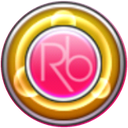
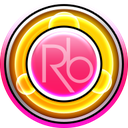
노트 그래픽을 RbPlus gm_parts1 노트로 교체 [dgb-202610150036]

diff --git a/js/8-render.js b/js/8-render.js
@@ -5,7 +5,7 @@ function box(x,y,w,h,fill,stroke,lw){ctx.fillStyle=fill;ctx.fillRect(x,y,w,h);if
 function chevron(x,y,s,up){ctx.beginPath();ctx.moveTo(x-s,y+(up?s*.5:-s*.5));ctx.lineTo(x,y+(up?-s*.5:s*.5));ctx.lineTo(x+s,y+(up?s*.5:-s*.5));ctx.stroke();}
 // 노트 스프라이트: 사용자가 보낸 REFLEC BEAT 스크린샷에서 잘라낸 이미지(data/img/notes, docs/assets-credits.md)
 const NOTE_IMG={};for(const k of ['red','gold','green']){const im=new Image();im.decoding='async';im.src='data/img/notes/'+k+'.png';NOTE_IMG[k]=im;}
-const GREEN_ARROW0=102*Math.PI/180; // green.png 안의 화살표가 가리키는 각도(이미지 좌표, 실측)
+const GREEN_ARROW0=90*Math.PI/180; // RbPlus gm_parts1 녹색 노트: 역삼각형(아래, 90°)
 function drawNoteBody(n,x,y,alpha){ctx.globalAlpha=alpha;const r=n.r,im=NOTE_IMG[n.type==='G'?'green':((n.gold||n.flick)?'gold':'red')];
  if(im&&im.complete&&im.naturalWidth){const sz=r*2;
   if(n.type==='G'){ // 화살표는 항상 자기 버튼 쪽(지나친 뒤엔 마지막 방향 유지 = 진행 방향)

diff --git a/sw.js b/sw.js
@@ -1,5 +1,5 @@
 // dgb 서비스 워커: 앱 셸 사전 캐시 + 차트/음악 데이터는 처음 받을 때 캐시(오프라인 재생)
-const V='dgb-202610150033';
+const V='dgb-202610150036';
 const SHELL=['./','index.html','css/dgb.css','manifest.webmanifest','data/songs.json','icons/icon-192.png','data/img/notes/red.png','data/img/notes/gold.png','data/img/notes/green.png',
  'js/version.js','js/0-core.js','js/1-parser.js','js/2-audio.js','js/3-songs.js','js/4-state.js','js/5-input.js','js/6-menu.js','js/7-update.js','js/8-render.js'];
 self.addEventListener('install',e=>{e.waitUntil(caches.open(V).then(c=>c.addAll(SHELL)).then(()=>self.skipWaiting()));});

diff --git a/js/version.js b/js/version.js
@@ -1,2 +1,2 @@
 // 배포 시 tools/deploy.sh가 자동 기록(sw.js 캐시 버전과 같은 값). 직접 고치지 말 것
-const BUILD='dgb-202610150033';
+const BUILD='dgb-202610150036';

diff --git a/docs/assets-credits.md b/docs/assets-credits.md
@@ -21,3 +21,6 @@
 - Starter Package 약관(…/StarterPackage/index.html): 수록 곡·차트는 REFLET MUSE 안에서만 사용할 수 있고 재배포는 금지입니다(제작자가 허가한 경우만 예외, 현재 0곡).
 - (초기 판단) dgb는 GitHub Pages에 공개 배포됩니다. 이미지(노트 스프라이트 등)는 명시적으로 허가 없이 사용할 수 없고, 효과음 wav·bgm을 저장소에 올리는 것은 재배포에 해당합니다. 그래서 **에셋은 하나도 넣지 않았습니다.** 대신 개념만 빌렸습니다(판정별 효과음 → 옵션 「판정별」, 소리는 자체 합성).
 - 사용하려면 작자(reflet@gdlife.sakura.ne.jp, 사이트 Q&A 기재)의 허가가 필요합니다. 허가를 받으면 sound/*.wav → ogg로 변환해 `assets/`에 넣고, 이 문서에 허가 내용을 기록하면 됩니다.
+
+## Note sprites
+- `data/img/notes/{red,gold,green}.png`: cropped from REFLEC BEAT plus offline pack texture `gm_parts1@2x.png` (rbhot2 offline_pack.zip).
